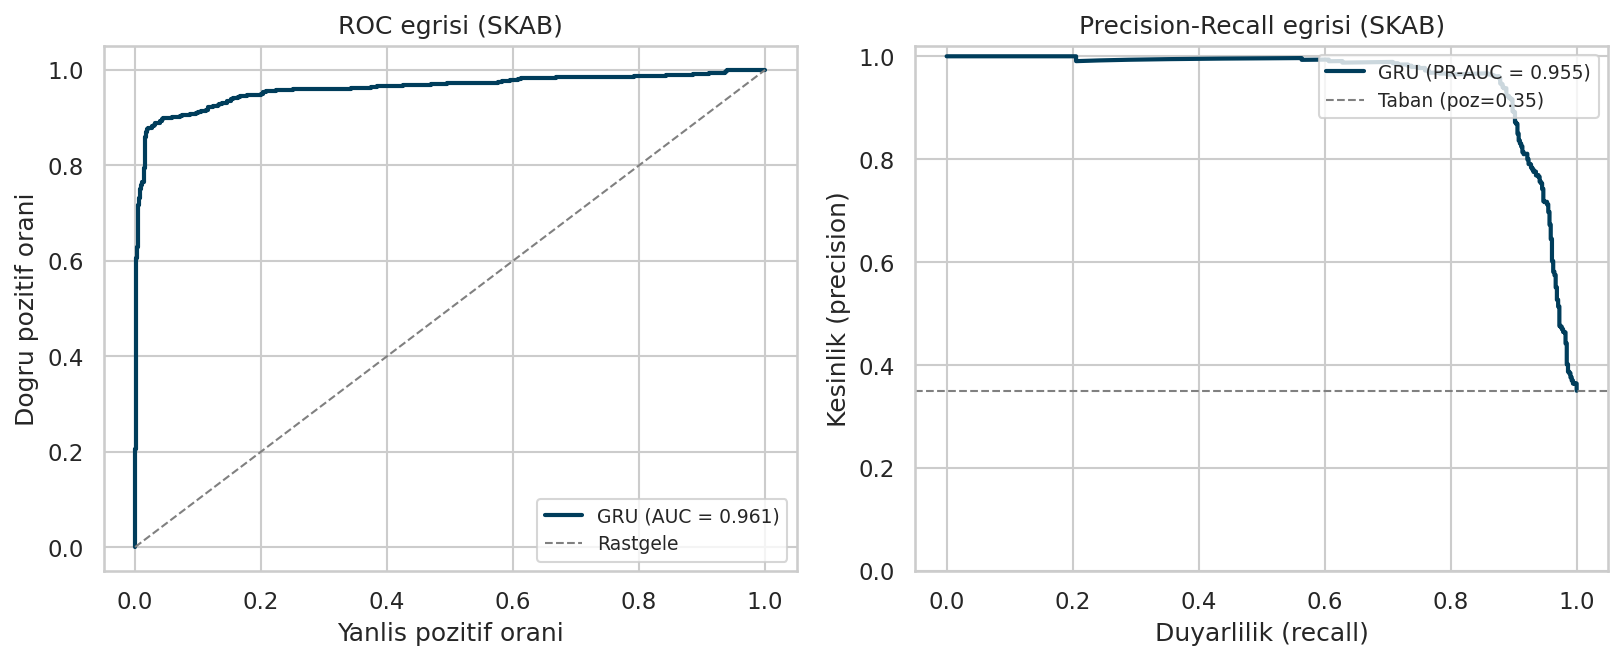
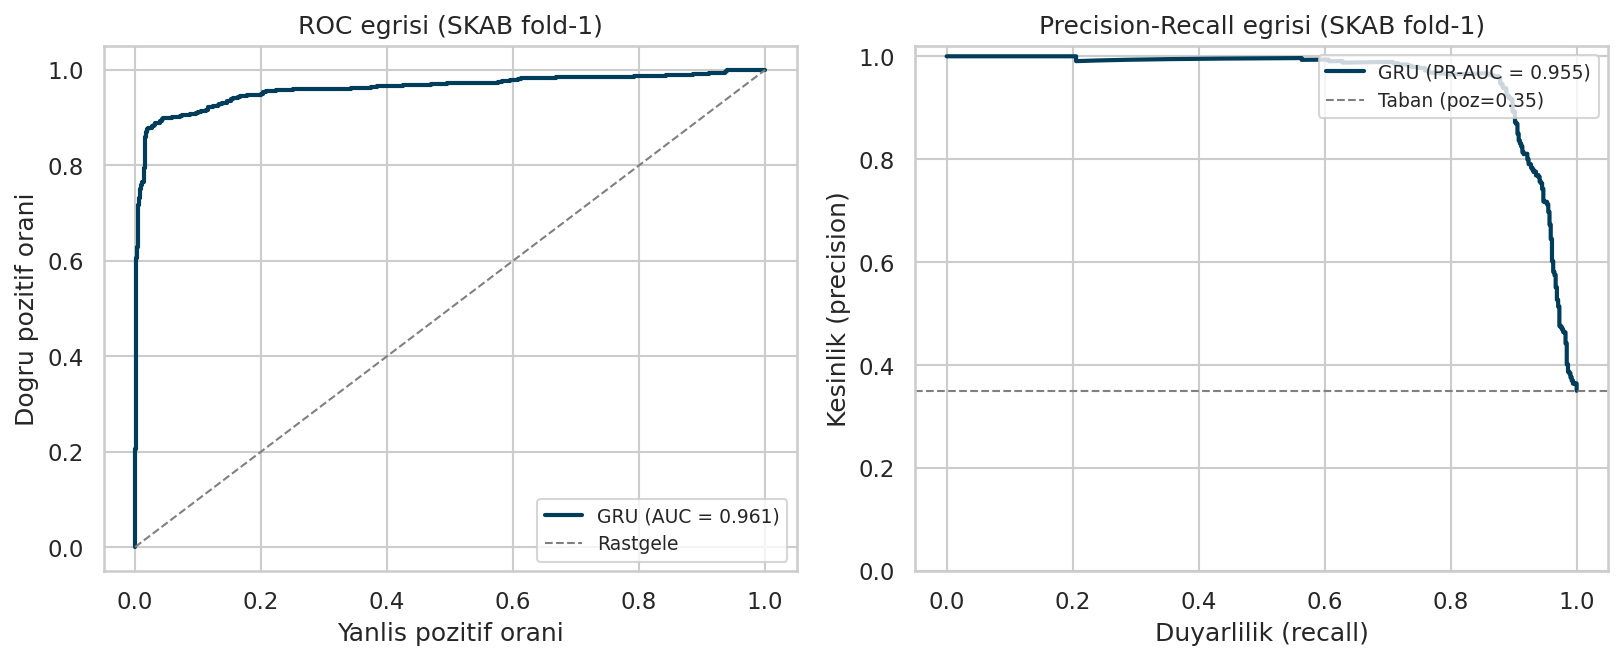
figur/rapor: roc-pr egrisi fold etiketi ve auc tutarliligi (fold ort ~0.93 vs fold-1 0.961)

Changed region(s): [[0.647, 0.0, 0.9242, 0.0605], [0.1848, 0.0, 0.3697, 0.0605]]

diff --git a/scripts/make_figures.py b/scripts/make_figures.py
@@ -147,12 +147,12 @@ def fig_roc_pr(model, model_ad, g_test, cikti):
              label=f"{etiket} (AUC = {roc_auc:.3f})")
     ax1.plot([0, 1], [0, 1], "--", color="gray", lw=1, label="Rastgele")
     ax1.set_xlabel("Yanlis pozitif orani"); ax1.set_ylabel("Dogru pozitif orani")
-    ax1.set_title("ROC egrisi (SKAB)"); ax1.legend(loc="lower right", fontsize=9)
+    ax1.set_title("ROC egrisi (SKAB fold-1)"); ax1.legend(loc="lower right", fontsize=9)
     ax2.plot(duyarlilik, kesinlik, color=RENKLER.get(model_ad, "#00798c"), lw=2,
              label=f"{etiket} (PR-AUC = {pr_auc:.3f})")
     ax2.axhline(taban, ls="--", color="gray", lw=1, label=f"Taban (poz={taban:.2f})")
     ax2.set_xlabel("Duyarlilik (recall)"); ax2.set_ylabel("Kesinlik (precision)")
-    ax2.set_title("Precision-Recall egrisi (SKAB)"); ax2.legend(loc="upper right", fontsize=9)
+    ax2.set_title("Precision-Recall egrisi (SKAB fold-1)"); ax2.legend(loc="upper right", fontsize=9)
     ax2.set_ylim(0, 1.02)
     fig.tight_layout()
     _kaydet(fig, cikti, "fig_roc_pr.png")

diff --git a/README.md b/README.md
@@ -209,8 +209,11 @@ birlikte gösterilir: **F1**, **durum sayısı** ve **geçiş yoğunluğu**.
 
 ![Karmaşıklık matrisi](results/figurler/fig_karmasiklik_matrisi.png)
 
-SKAB'da en iyi derin öğrenme modelinin (GRU) ROC ve Precision-Recall eğrileri
-(ROC-AUC ≈ 0,93); eşikten bağımsız sıralama başarısını gösterir:
+SKAB'da en iyi derin öğrenme modelinin (GRU) ROC ve Precision-Recall eğrileri;
+eşikten bağımsız sıralama başarısını gösterir. Metin boyunca anılan **ROC-AUC ≈ 0,93**
+değeri 5 kat (fold) **ortalamasıdır**; aşağıdaki eğri ise tekrarlanabilirlik için tek bir
+kat üzerinde (**SKAB fold-1**) yeniden eğitilen modeldendir ve o kat için **AUC = 0,961**
+okur — fold-1'in ortalamanın hafif üstünde olması beklenen bir dalgalanmadır:
 
 ![ROC ve PR eğrileri](results/figurler/fig_roc_pr.png)
 

diff --git a/rapor/rapor.md b/rapor/rapor.md
@@ -168,7 +168,8 @@ kayırır ve anlamlı yorumlanamaz. Bu nedenle istatistik çıktısında BATADAL
 kaydı `yorum_disi: true` bayrağıyla işaretlenir; çıkarımlar yalnızca SKAB McNemar'ı
 üzerinden yapılır. **Dengesiz veride doğruluk yanıltıcıdır; asıl ölçüt F1/PR'dir.**
 
-Görseller: karmaşıklık matrisi, ROC/PR eğrisi (`fig_roc_pr.png`, GRU ROC-AUC ≈ 0,93),
+Görseller: karmaşıklık matrisi, ROC/PR eğrisi (`fig_roc_pr.png`; metinde anılan GRU
+ROC-AUC ≈ 0,93 değeri 5 kat ortalaması, figürdeki eğri **SKAB fold-1** için AUC = 0,961),
 otomata durum geçiş diyagramı ve geçiş olasılık ısı haritası `results/figurler/`
 altındadır.
 